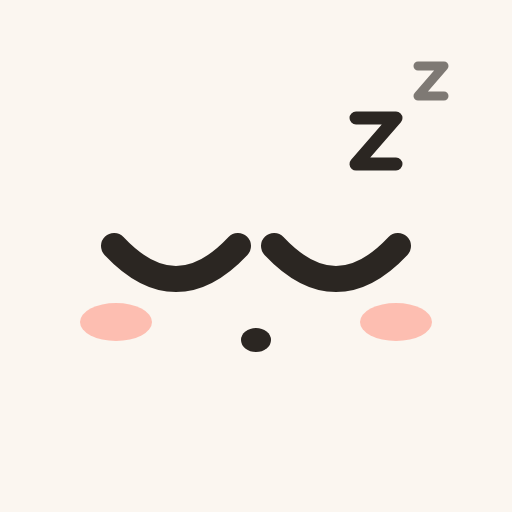
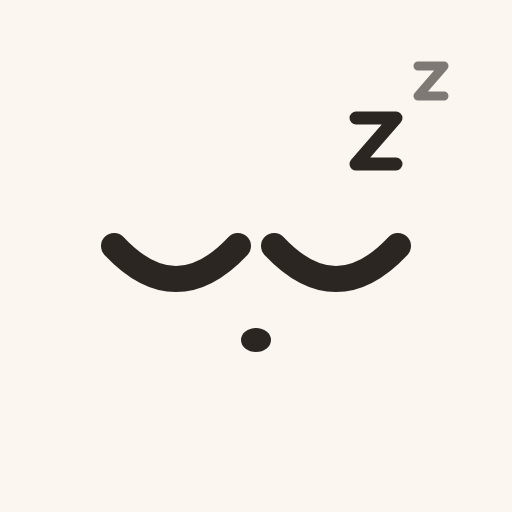
Remove the face's blushing cheeks
Claude-Session: https://claude.ai/code/session_016RoD3mjrHVGxTRyoz8tShs

Changed region(s): [[0.6875, 0.5938, 0.8438, 0.6875], [0.1562, 0.5938, 0.3125, 0.6875]]

diff --git a/index.html b/index.html
@@ -49,7 +49,6 @@
     --fz-h: max(176px, 25vh);
     --ink: #2b2622;
     --mouth: #2b2622;
-    --blush: #ff8f7e;
     --tongue: #ff7fa8;
     color-scheme: light;
   }
@@ -76,7 +75,6 @@
       --scrim: rgba(5, 5, 20, 0.6);
       --ink: #f6f1ea;
       --mouth: #f6f1ea;
-      --blush: #ff8fa0;
       color-scheme: dark;
     }
   }
@@ -152,8 +150,6 @@
   @keyframes yawn { 0% { transform: scale(.4); } 60% { transform: scale(1.1, 1.2); } 100% { transform: scale(1); } }
   @keyframes snore { 50% { transform: scale(1.35); } }
 
-  .face .blush { fill: var(--blush); opacity: 0; transition: opacity .4s ease; }
-  .face.blushing .blush { opacity: .55; }
   .face.dizzy .pupil { animation: dizzy .45s linear infinite; }
   @keyframes dizzy {
     0% { transform: translate(9px, 0); } 25% { transform: translate(0, 9px); }
@@ -433,8 +429,6 @@
           <clipPath id="clipMouth"><path d="M80 92H120Q120 120 100 120Q80 120 80 92Z"/></clipPath>
         </defs>
         <g class="body">
-          <ellipse class="blush" cx="30" cy="88" rx="13" ry="7"/>
-          <ellipse class="blush" cx="170" cy="88" rx="13" ry="7"/>
           <g class="eye L">
             <g class="open">
               <circle class="white" cx="62" cy="54" r="30"/>
@@ -763,15 +757,15 @@
     const EYES = [[62, 54], [138, 54]], VBW = 200, VBH = 124, REACH = 11;
     const EXPR = {
       awake: { eyes: 'open', mouth: 'smile' },
-      asleep: { eyes: 'closed', mouth: 'sleep', blush: true },
-      peek: { eyes: 'peek', mouth: 'sleep', blush: true },
+      asleep: { eyes: 'closed', mouth: 'sleep' },
+      peek: { eyes: 'peek', mouth: 'sleep' },
       yawn: { eyes: 'happy', mouth: 'yawn' },
-      happy: { eyes: 'happy', mouth: 'laugh', blush: true, bounce: true },
-      giggle: { eyes: 'happy', mouth: 'laugh', blush: true, bounce: true },
-      wink: { eyes: 'wink', mouth: 'blep', blush: true },
+      happy: { eyes: 'happy', mouth: 'laugh', bounce: true },
+      giggle: { eyes: 'happy', mouth: 'laugh', bounce: true },
+      wink: { eyes: 'wink', mouth: 'blep' },
       blep: { eyes: 'open', mouth: 'blep' },
-      content: { eyes: 'happy', mouth: 'smile', blush: true },
-      yum: { eyes: 'happy', mouth: 'chew', blush: true },
+      content: { eyes: 'happy', mouth: 'smile' },
+      yum: { eyes: 'happy', mouth: 'chew' },
       surprised: { eyes: 'wide', mouth: 'o' },
       dizzy: { eyes: 'open', mouth: 'o', dizzy: true }
     };
@@ -782,7 +776,6 @@
       const e = EXPR[name];
       svg.dataset.eyes = e.eyes;
       svg.dataset.mouth = e.mouth;
-      svg.classList.toggle('blushing', !!e.blush);
       svg.classList.toggle('dizzy', !!e.dizzy);
       fz.classList.toggle('snoozing', name === 'asleep');
       if (e.bounce) { svg.classList.remove('bounce'); void svg.getBoundingClientRect(); svg.classList.add('bounce'); }

diff --git a/sw.js b/sw.js
@@ -1,6 +1,6 @@
 // Keeps the app working with no internet. Tries the network first so updates
 // arrive automatically, and falls back to the saved copy when offline.
-const CACHE = 'sleep-v6';
+const CACHE = 'sleep-v7';
 const FILES = ['./', 'index.html', 'sync-config.js', 'fonts/nunito.woff2', 'manifest.webmanifest', 'icons/icon.svg', 'icons/icon-192.png', 'icons/icon-512.png', 'icons/apple-touch-icon.png'];
 
 self.addEventListener('install', (e) => {

diff --git a/README.md b/README.md
@@ -2,7 +2,7 @@
 
 A small tracker for sleeps and feeds that lives on your phone's home screen and works like a normal app.
 
-- **A little face** at the top that keeps Sye company. It sleeps (with floating z's under a starry sky) while Sye sleeps, and is awake and curious otherwise.
+- **A little face** at the top that keeps Sye company. It sleeps (with floating z's) while Sye sleeps, and is awake and curious otherwise.
   - It blinks, glances around and looks wherever you tap.
   - It yawns when a sleep starts and pops its eyes open on wake-up.
   - It smiles at feeds and chews when you log solids.
